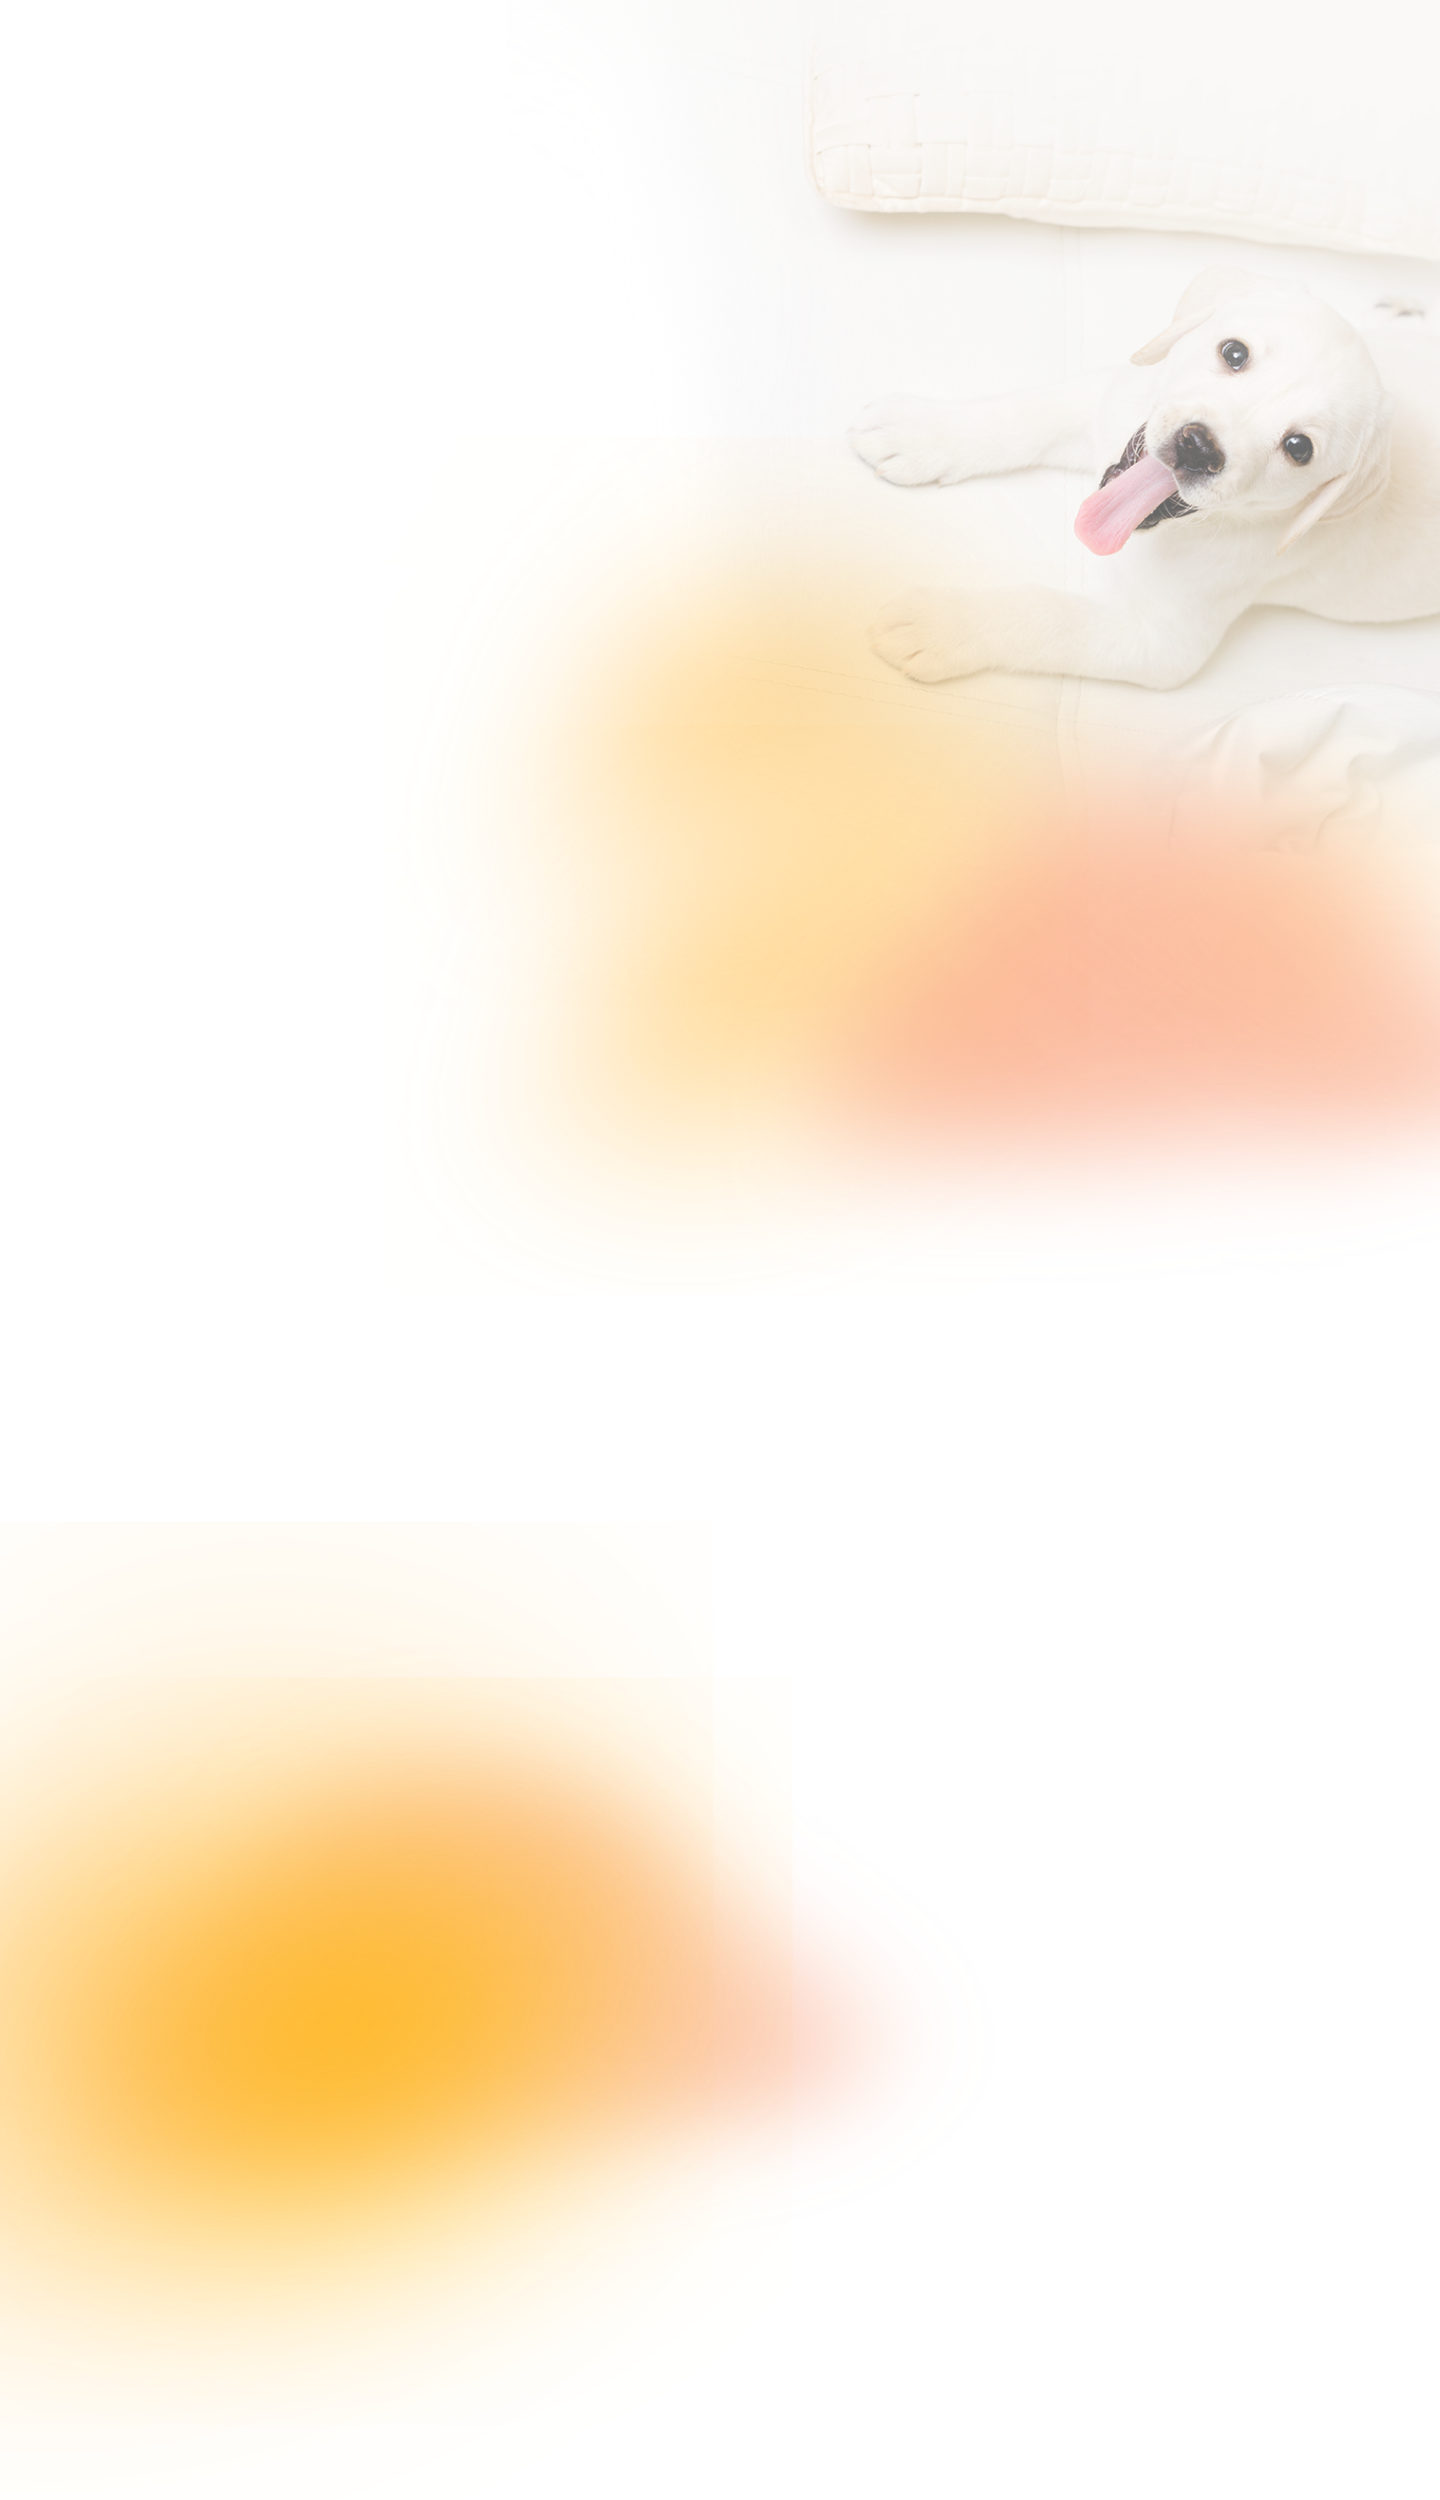
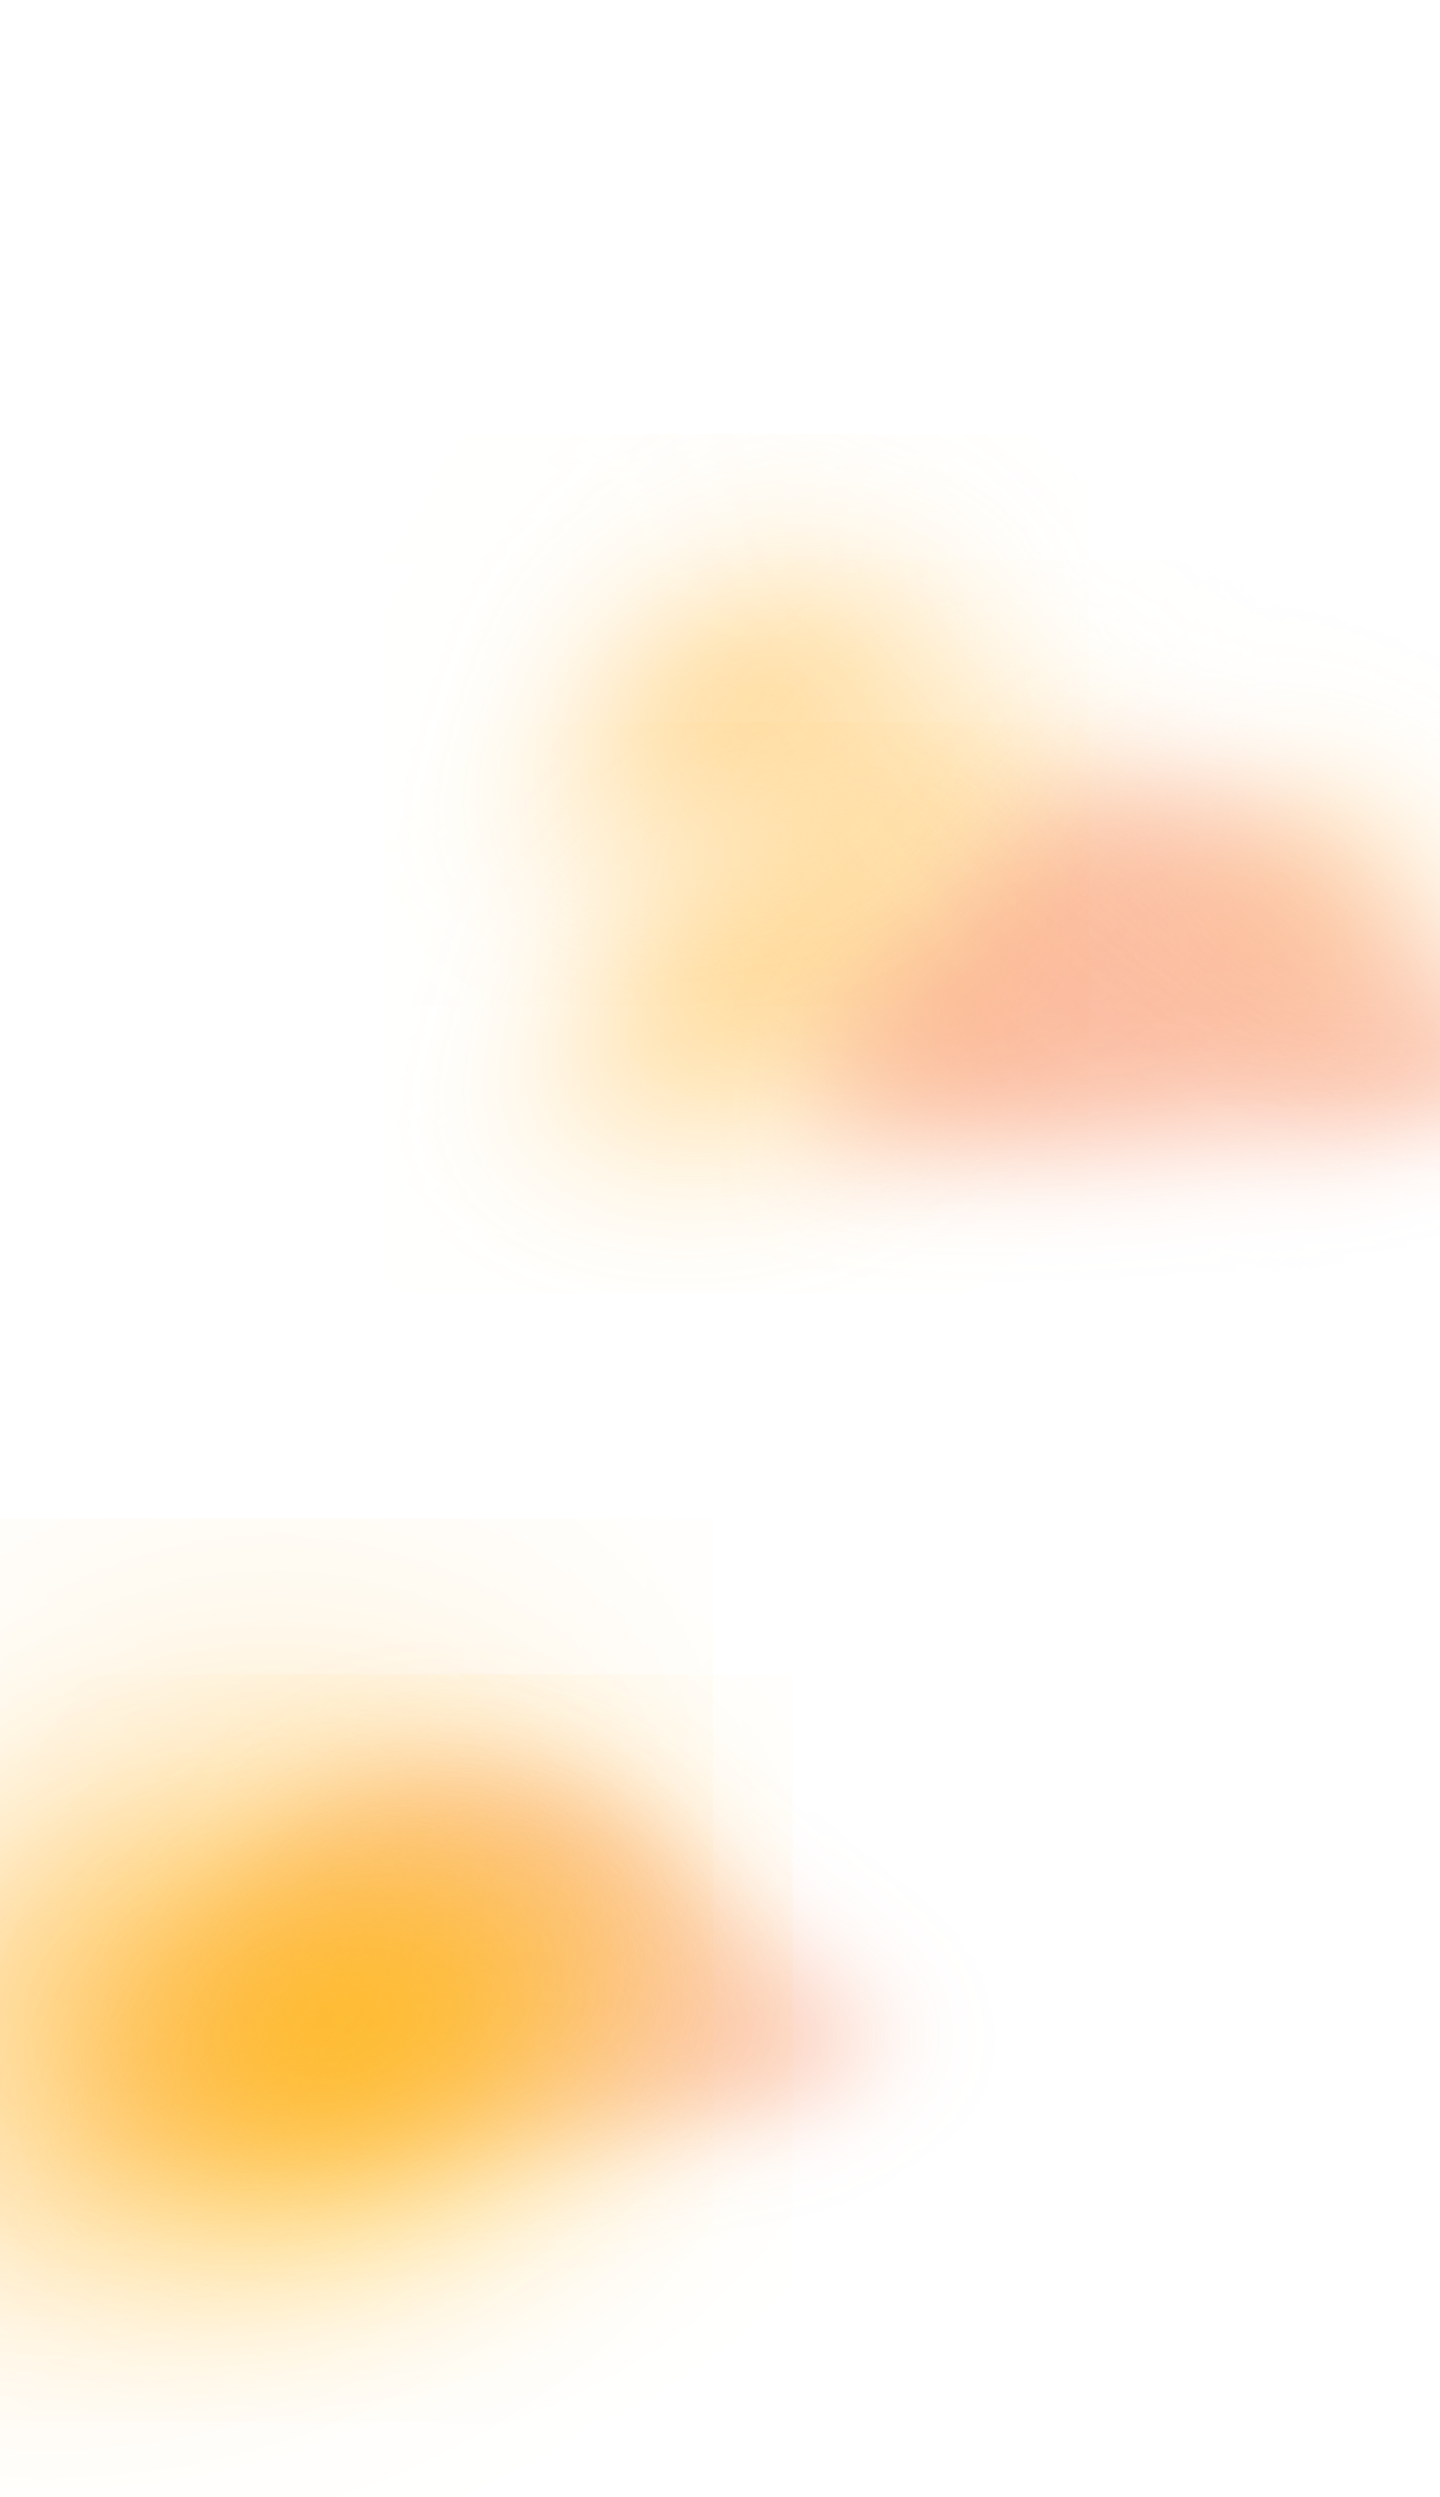
a

diff --git a/src/app/thx/page.tsx b/src/app/thx/page.tsx
@@ -21,6 +21,7 @@ export const metadata: Metadata = {
 export default function Thankyou() {
   return (
     <main className="bg-[url('/assets/images/bg-thanks.png')] bg-cover">
+      <div className="bg-[url('/assets/images/bg-inu.png')] bg-right-top max-dt:bg-[length:64.861vw_auto] max-md:bg-[length:50%_auto] bg-no-repeat">
         <div className="px-5">
           <div className="w-full max-w-[1062px] mx-auto md:pt-[294px] pt-[150px]">
             <h3 className="text-center md:text-[128px] text-[64px] font-black leading-none">ARIGATO!</h3>
@@ -130,6 +131,7 @@ export default function Thankyou() {
             </p>
           </div>
         </div>
+      </div>
     </main>
   )
 }
